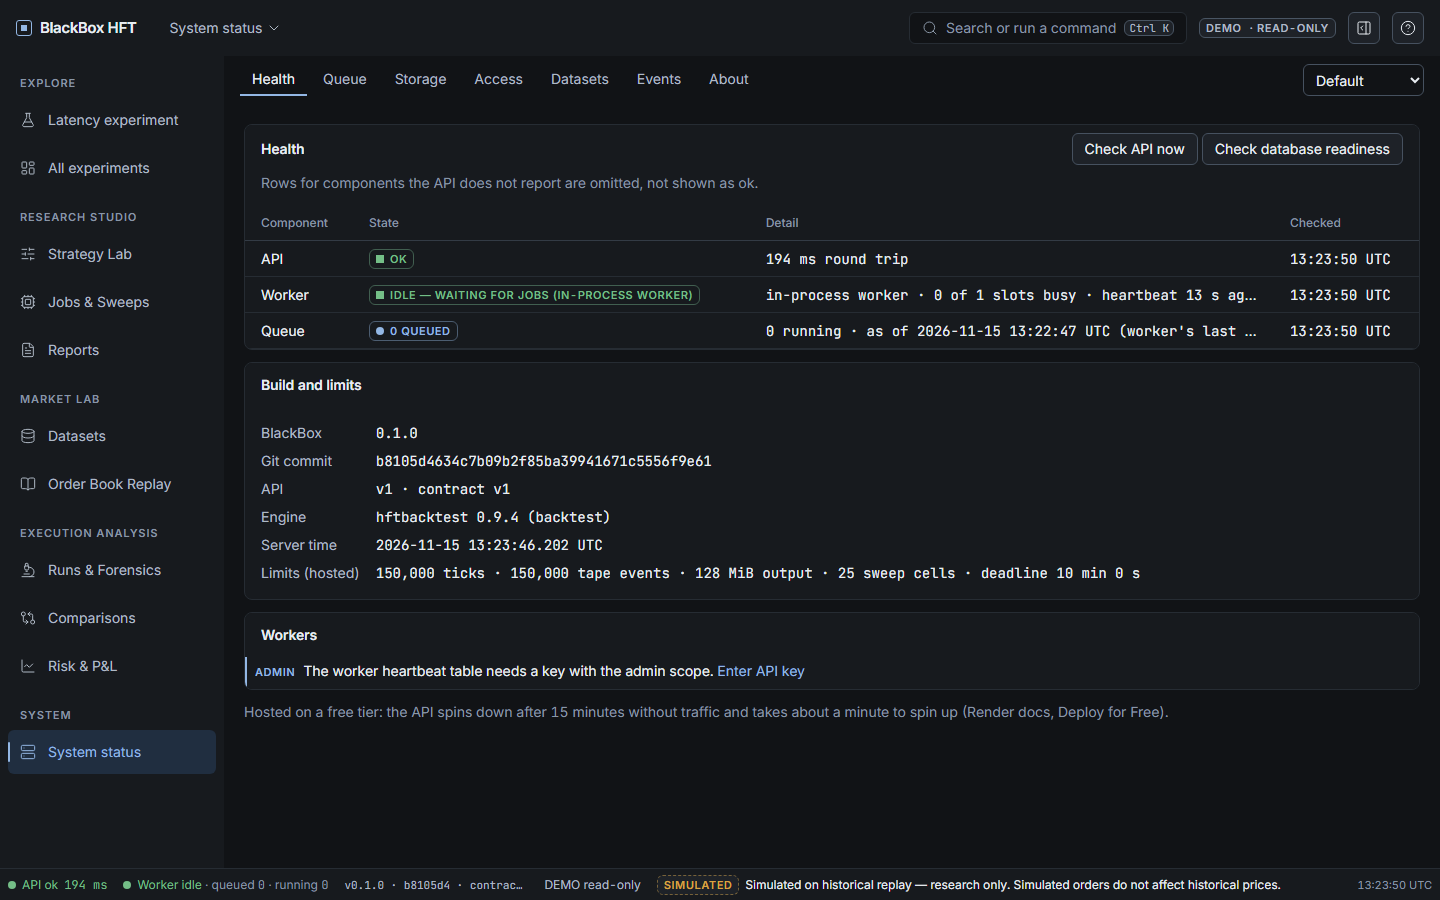
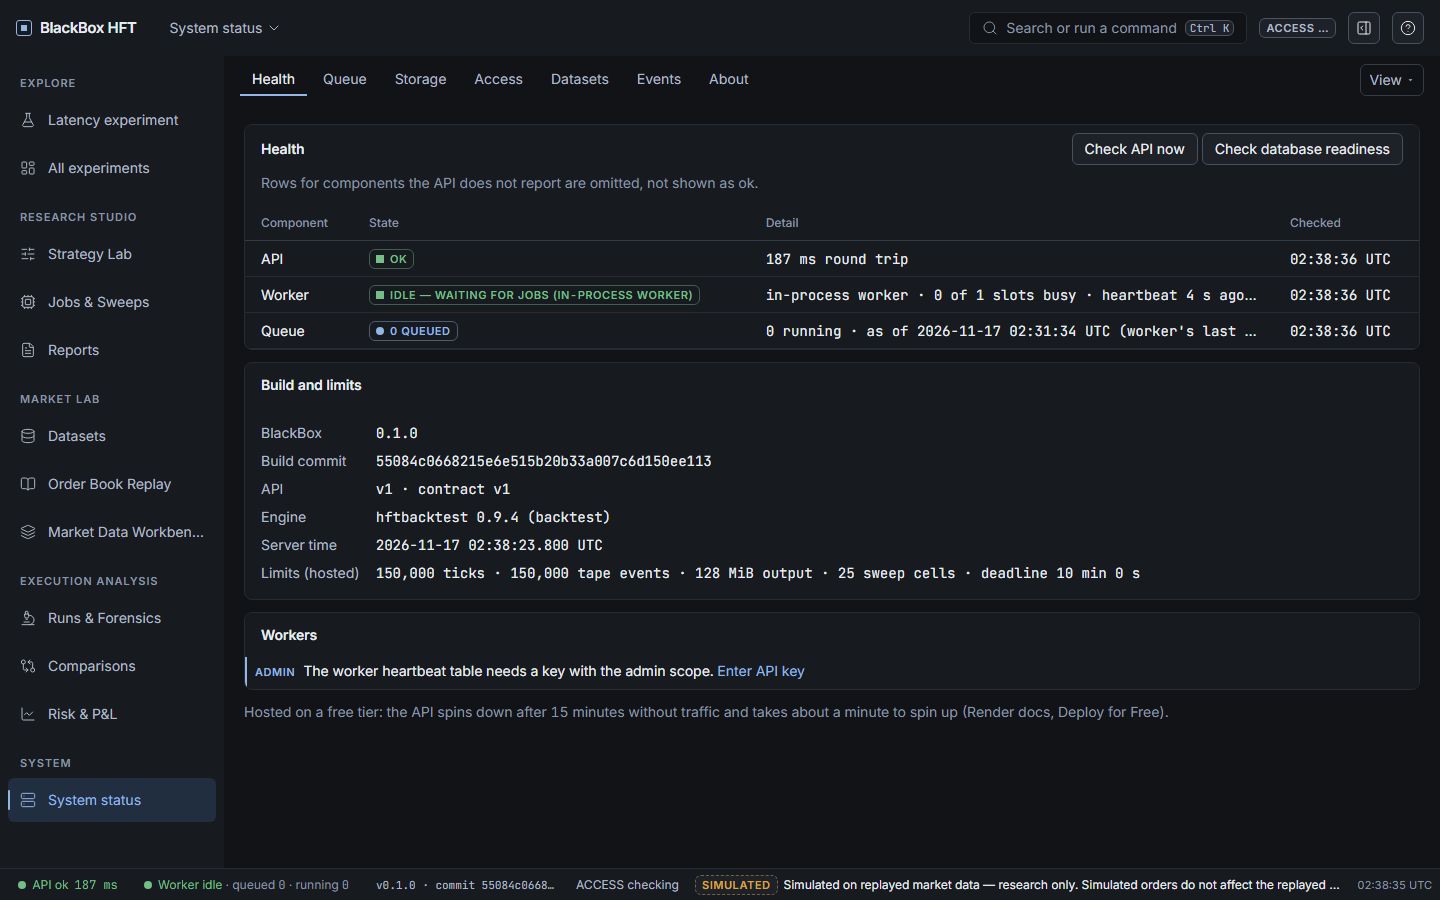
docs: Phase 3.1-5 release record, performance A/B results, tracker and project state
- PHASE31_RELEASE (CI, digest, Render deploy, smoke, demo seed, acceptance, incident, rollback).

- PHASE32_PERFORMANCE: same-session A/B method and results, LCP regression and fix.

- Refreshed production acceptance screenshots and new release screenshots.

diff --git a/docs/rebuild/PHASE32_PERFORMANCE.md b/docs/rebuild/PHASE32_PERFORMANCE.md
@@ -107,7 +107,9 @@ Layout-shift attribution (PerformanceObserver `sources`, same throttling) identi
 | Risk (0.07–0.09) | chart grid replaced a 20 px spinner | chart area reserved while equity loads (`features/risk/*`) |
 | Replay phone (0.34) | a spinner inside the phone toolbar re-wrapped it on every window load | announced status only; the heatmap and body show loading (`features/terminal/ReplayTerminalPage.tsx`) |
 | Run overview (0.47 desktop) | toolbar wrapping and KPI strip | fixed with the Phase 3.1 audit items (toolbar disclosure, wrapping KPI grid) |
-| Market workbench | header line appeared and wrapped late | line always present; see ClsFix |
+| Market workbench (0.04 desktop, 0.08 phone) | meta line appeared late and wrapped | one fixed line with ellipsis and title (`features/market/`) |
+| Compare pair (0.27 desktop) | the evidence legend's Inter 500 face arrived after the data and re-wrapped it | Inter 500 requested at start (`main.tsx`) |
+| Compare set (0.70 desktop, 0.65 phone on the data path) | each panel grew as its request finished | panels render together once the requests that shape them finished (`features/latency/LatencyLabPage.tsx`) |
 
 Also: the layout-reset context moved out of `SplitPane` (entry chunk −1.75 kB); no other bundle change was made
 because no measured bottleneck pointed at JS execution on desktop (0 long tasks during every interaction).
@@ -118,10 +120,64 @@ already compresses).
 
 ## After
 
-See "Results after the changes" below (filled from the A/B run on the same harness, server and data).
+**Measurement pitfall.** A first 5-repetition "after" run taken hours after the baseline showed mobile TBT 4–8× higher
+and mobile interactions 40–230 % slower on every page, including unchanged ones. Same-session CDP
+`Performance.getMetrics` showed the same main-thread work for both builds (e.g. Risk 1,030 vs 1,023 ms TaskDuration,
+Explore 779 vs 718 ms; open-menu 93–116 vs 88–141 ms), so the difference was machine state, not code. All
+comparisons below therefore alternate builds in one session (base, final, base, final; 3 repetitions each; mobile
+profile; same server binary, database and data; egress reset before every run). Raw: `data/perf/ab-mobile.md`,
+`data/perf/ab2-mobile.md` (local).
+
+**A/B 1 (release `55084c0` UI vs `7c49dae`), medians of 6 repetitions per build:**
+
+| Scenario | CLS base → final | TBT ms base → final | LCP ms base → final |
+|---|---|---|---|
+| Replay | 0.344 → 0.001 | 137 → 107 | 10,768 → 11,214 |
+| Run overview | 0.095 → 0.006 | 110 → 82 | 5,198 → 5,720 |
+| Strategy Lab | 0.288 → 0.001 | 0 → 18 | 4,676 → 5,026 |
+| Risk | 0.200 → 0.003 | 207 → 184 | 5,198 → 5,712 |
+| Report | 0.131 → 0.001 | 0 → 0 | 4,090 → 4,592 |
+| Explore | 0.001 → 0.001 | 90 → 75 | 5,240 → 5,664 |
+| Compare pair | 0.001 → 0.001 | 91 → 76 | 4,234 → 4,682 |
+
+Desktop (5 repetitions, separate session): CLS on every page ≤ 0.016 (baseline 0.21–0.47 on five pages); no long
+task during any interaction; interactions ≤ 24 ms. Run-to-run TBT drift within a build was ≤ 17 ms.
+
+**Regression found and fixed.** LCP was 350–520 ms (+4–12 %) later on every mobile page. Causes: (1) the shared
+label module imported the Strategy Lab's form definitions to name configuration paths, so most pages loaded a 37 kB
+chunk; it now reads a 52-entry static table (`components/labFieldLabels.ts`, checked against the Lab definitions by
+`labFieldLabels.test.ts`), and the chunk is 6 kB; (2) all five font faces were requested at start to stop one late
+face from re-wrapping text; now only Inter 500 is.
+
+**A/B 2 (fixed UI vs `7c49dae`), same protocol.** The run `ab2-base-2` had higher background load (per-repetition CPU
+median 31 % vs 17–19 % for the others), which inflates its TBT; TBT below is therefore base-1 vs final-1 only. LCP and
+CLS use all six repetitions.
+
+| Scenario | CLS base → final | LCP ms base → final | TBT ms base-1 → final-1 | Longest task ms (6 reps) |
+|---|---|---|---|---|
+| Replay | 0.344 → 0.001 | 10,852 → 10,942 (+0.8 %) | 151 → 130 | 192 → 164 |
+| Run overview | 0.095 → 0.006 | 5,198 → 5,348 (+2.9 %) | 103 → 85 | 172 → 172 |
+| Strategy Lab | 0.288 → 0.001 | 4,686 → 4,912 (+4.8 %) | 0 → 19 | 181 → 158 |
+| Risk | 0.200 → 0.003 | 5,220 → 5,360 (+2.7 %) | 241 → 216 | 257 → 200 |
+| Report | 0.131 → 0.001 | 4,120 → 4,248 (+3.1 %) | 0 → 0 | 184 → 156 |
+| Explore | 0.001 → 0.001 | 5,284 → 5,390 (+2.0 %) | 101 → 87 | 190 → 172 |
+| Compare pair | 0.001 → 0.001 | 4,250 → 4,406 (+3.7 %) | 92 → 81 | 186 → 156 |
+
+Mobile interactions (6 repetitions each): scenario switch 60 → 56 ms, replay step 60 → 52, scrub 60 → 48, order select
+64 → 52, blotter next page 72 → 40, preset 48 → 48, open menu 76 → 72; blotter touch scroll to visible result 864 →
+259 ms. FCP unchanged (±30 ms).
+
+**Outcome.** CLS meets the 0.1 target on every measured page and profile (worst 0.016 desktop Risk; was 0.47).
+Mobile TBT and the longest task are lower on almost every page. LCP is still 90–226 ms (+1–5 %) later than the
+baseline locally: each page now downloads 9–20 KiB more uncompressed JavaScript (the Workbench, evidence ledger, Lab
+and label code), which costs roughly 50–100 ms at the profile's 200 kB/s and is compressed about 3:1 in production.
+LCP is above the 2.5 s target on the local mobile profile for every page (4.2–10.9 s) both before and after; the
+production mobile smoke measured 2.2–4.5 s with compression. INP is not claimed: these are lab interactions.
 
 ## Remaining limitations
 
 - No field data; INP not claimed. Lab interaction latency only.
 - Local numbers are uncompressed; production numbers are one repetition each (budget and bot-protection limits).
 - Cold start measured only when it occurred naturally.
+- Mobile LCP on the Slow 4G profile is dominated by transfer (entry chunk 397 KiB uncompressed, replay window 1.1 MB
+  of API data); reducing it needs smaller API windows or a smaller entry chunk, both larger changes left for later.

diff --git a/docs/rebuild/PHASE31_RELEASE.md b/docs/rebuild/PHASE31_RELEASE.md
@@ -1,0 +1,55 @@
+# Release: Phases 3.1, 3.2, 4 and 5 (2026-11-16)
+
+`main` = `55084c0` (merge of PR #2, branch `phase31/release`). Commits: `fd4a290` backend (L3 workbench, stress
+regimes, study CLI, `execution_validation` demo), `177fa2c` web, `efceb96` docs, `cdea31c` config-value formatter,
+`799c156` CI curated counts.
+
+PR #1 (`phase31/ui`) was closed unmerged: one of its commits added a docs line that the per-commit secret scan
+(SEC-19) flags (`BLACKBOX_TEST_DATABASE_URL=…`, no real value), and a later commit cannot remove it from the scanned
+range without a force-push. The same content was rebuilt on a new branch from `7c49dae` with that line corrected.
+
+## CI
+
+| Run | Result |
+|---|---|
+| PR #2, 43958470088 (`799c156`) | 8/8 green: rust, golden-windows, web, e2e, contract, audit, policy, docker |
+| `main`, 43960047213 (`55084c0`) | 7/8 first attempt: `web` failed at `npm audit signatures` (`EMISSINGSIGNATUREKEY` for postcss@8.5.32 attestations, the registry-side error recorded in PRODUCTION_ACCEPTANCE for `d85f743`); re-run of the failed job passed |
+| publish 43961883356 | image index `sha256:3cc6b03bc84368d74aed953418a2741f06769476771f97dc166aff0bc45bf6f8`; deploy step skipped (no hook), manual digest release followed |
+
+## Production
+
+| Check | Result |
+|---|---|
+| Render | `render deploys create srv-dbs11fm1egvs73chs7lg --image ghcr.io/tanmay-alpha/blackbox-hft@sha256:3cc6b03b…f6f8`; deploy `dep-dbtnhvsipgvc739jbs40` live; previous `dep-dbsr463l550s7398h2i0` deactivated |
+| `/api/v1/status` | `git_sha=55084c0668215e6e515b20b33a007c6d150ee113`, worker idle, `result_platform=linux-x86_64+libm-53154a4e` |
+| Smoke (`scripts/deploy/smoke.sh`) | 8/8 PASS |
+| Vercel | production deployment built from `main` (created 21:26 UTC) Ready; bundle contains the Market Data Workbench; `/market/l3-demo` 200 |
+| Market endpoints (anonymous) | `/market/datasets`, `/l3-demo`, `/events?limit=5`, `/book?event_index=15000`, `/metrics`, `/comparison` all 200 (0.20–0.73 s) |
+| Demo seed | pass 1 registered `synthetic-stress-depletion` and `synthetic-stress-wide-spreads`, queued 6 runs; the hosted worker completed them; pass 2 created 6 comparisons (4 aligned, 2 metrics-only across datasets) and the "Execution model validation" report. The 8 existing demo runs kept their ids (`253bbc23b342f373`, `d6a57aed972e18d0`, `bc2d1df47e2b91fe`, `130d67fc371bd27f`, `6bcdf19136fd3059`, `586374188aae19b2`) |
+| `/api/v1/demos` | lists `cost_of_latency`, `queue_position`, `gross_vs_net`, `execution_validation` |
+| Anonymous acceptance (`npm run test:prod`) | 7 passed, 1 skipped (the keyed journey needs `PROD_RESEARCH_KEY`, not set) |
+| New pages in a browser (1440×900) | `/market/l3-demo?tab=book&event=15000`, `/forensics/253bbc23b342f373/orders/256` (evidence ledger), `/book/runs/253bbc23b342f373`: one h1, no error box, no console error. `/compare/set?demo=execution_validation`: the first load after the deploy got one `503 busy` (heavy-read permit wait of 2 s exceeded while 7 run bundles were fetched cold from Blob; the page showed the error with Retry); two reloads 8 s apart loaded all 6 panels with no error. Screenshots `img/p31-prod-*-1440.webp` |
+
+Notes:
+- Anonymous list endpoints come from the in-memory demo snapshot (`v1/snapshot.rs`, `MAX_AGE` 1 h), so the new
+  curated comparisons appear in `/comparisons` within an hour of the seed; detail reads by id were 200 immediately.
+- The idle in-process worker sleeps until its next scheduled wake when jobs are inserted by another process; the 6
+  seeded jobs were claimed a few minutes after insertion, as documented in `worker.rs`.
+
+## Incident during the release (no production data changed)
+
+After the seed, a local development server was restarted from the same shell, which still held the production
+`BLOB_READ_WRITE_TOKEN` from the seed step. It started with `storage=vercel_blob` against the local database and made
+18 read requests (16,077,417 bytes) to the production Blob store before it was stopped; it wrote nothing (no jobs
+ran). The shell variables were unset and every later local server is started with `env -u BLOB_READ_WRITE_TOKEN …`.
+Lesson: run production operator steps in a subshell so credentials never persist.
+
+## Rollback
+
+```
+render deploys create srv-dbs11fm1egvs73chs7lg --image ghcr.io/tanmay-alpha/blackbox-hft@sha256:c41fd646e2ba36d5ed2450b3bd31e23d53b1f1a36c1898781928c5c83d864c6b --wait --confirm
+vercel rollback <previous production deployment> --scope tanmay-alphas-projects
+```
+
+No migration. The added demo rows (2 datasets, 6 runs, 6 comparisons, 1 report) are additive and are ignored by the
+previous release's code paths except that its `/demos` does not list `execution_validation`.

diff --git a/docs/engineering/PROJECT_STATE.md b/docs/engineering/PROJECT_STATE.md
@@ -4,18 +4,20 @@ Single source of truth for the current phase, decisions, infrastructure and next
 
 ## Current phase
 
-**Phases 3.1, 3.2, 4 and 5 in progress on branch `phase31/ui` (2026-11-17), not yet released.** Tracker:
-[../rebuild/NEXT_PHASES_TRACKER.md](../rebuild/NEXT_PHASES_TRACKER.md). Evidence: Phase 3.1
-[../rebuild/PHASE31_UI_REVIEW.md](../rebuild/PHASE31_UI_REVIEW.md), Phase 3.2
-[../rebuild/PHASE32_PERFORMANCE.md](../rebuild/PHASE32_PERFORMANCE.md), Phase 4
-[../research/MARKET_DATA_WORKBENCH.md](../research/MARKET_DATA_WORKBENCH.md) and
-[../research/L3_L2_VALIDATION.md](../research/L3_L2_VALIDATION.md), Phase 5
-[../research/EXECUTION_MODEL_VALIDATION.md](../research/EXECUTION_MODEL_VALIDATION.md). No migration; the release
-adds the `execution_validation` demo, so production needs `demo seed` after the image is live. Agent availability
-during this phase: GPT-6.1 Sol hit `usage_limit_reached` and Opus 5.5 hit HTTP 429 mid-phase; the affected tasks were
-re-run by other agents from the transcripts.
+**Phases 3.1, 3.2, 4 and 5 released (2026-11-16 21:44 UTC).** `main` = `55084c0` (merge of PR #2). Image
+`ghcr.io/tanmay-alpha/blackbox-hft@sha256:3cc6b03bc84368d74aed953418a2741f06769476771f97dc166aff0bc45bf6f8`, Render
+deploy `dep-dbtnhvsipgvc739jbs40` live; `/status` `git_sha=55084c0…`, worker idle, platform
+`linux-x86_64+libm-53154a4e`. Smoke 8/8 PASS; anonymous production acceptance 7/7 (keyed spec skipped: no key in the
+environment). Vercel production built from `main`. Production `demo seed` (operator machine, TCP forwarder to Neon)
+registered the two stress datasets, the hosted worker computed the 6 new `execution_validation` runs, and the second
+pass stored 6 comparisons and 1 report; all 8 earlier demo runs kept their run ids. Record:
+[../rebuild/PHASE31_RELEASE.md](../rebuild/PHASE31_RELEASE.md). Tracker:
+[../rebuild/NEXT_PHASES_TRACKER.md](../rebuild/NEXT_PHASES_TRACKER.md). Rollback: redeploy
+`sha256:c41fd646e2ba36d5ed2450b3bd31e23d53b1f1a36c1898781928c5c83d864c6b` (release `b8105d4`) and promote the previous
+Vercel deployment; no migration. Agent availability during this phase: GPT-6.1 Sol hit `usage_limit_reached` and Opus
+5.5 hit HTTP 429 mid-phase; the affected tasks were re-run by other agents from the transcripts.
 
-The production state below is the last release, unchanged until this branch is released.
+Previous release, for reference:
 
 **Phase 3 released and verified (2026-11-15 13:23 UTC).** `main` = `b8105d4` (frontend-only product-experience
 release). The API reports `git_sha=b8105d4` from image `ghcr.io/tanmay-alpha/blackbox-hft@sha256:c41fd646…864c6b`

diff --git a/docs/rebuild/NEXT_PHASES_TRACKER.md b/docs/rebuild/NEXT_PHASES_TRACKER.md
@@ -1,23 +1,22 @@
 # Next phases tracker (3.1, 3.2, 4, 5)
 
-Status of each deliverable on branch `phase31/ui` (working tree over `main` 7c49dae), judged only by whether the
-named files exist in the tree on 2026-11-17. "Done" means the file is present, not that it has been released.
-Production deployment of every phase below: **pending release**.
+Status of each deliverable on `main` `55084c0` (2026-11-17). Production: **released** 2026-11-16 21:44 UTC
+(record: [PHASE31_RELEASE.md](PHASE31_RELEASE.md)); the `execution_validation` demo is seeded in production.
 
 ## Phase 3.1: UI polish, responsiveness, accessibility
 
 | Deliverable | Evidence | Status |
 |---|---|---|
-| Review record with defect matrix, regression tests | `docs/rebuild/PHASE31_UI_REVIEW.md` | Partial: its "Remaining" section still awaits the independent product review |
+| Review record with defect matrix, regression tests, independent review (7.90) | `docs/rebuild/PHASE31_UI_REVIEW.md` | Done |
 | Before/after screenshots 360–1440 px | `docs/rebuild/img/p3-*.webp` | Done |
 | Shell, component and page changes | `web/src/shell/`, `web/src/components/`, `web/src/features/*/` (modified) | Done |
-| E2E coverage | `web/e2e/research.spec.ts`, `web/e2e/fixtures.ts` (modified) | Done |
+| E2E coverage | `web/e2e/responsive.spec.ts`, `web/e2e/a11y-keyboard.spec.ts`, `web/e2e/measure.ts`, `web/e2e/research.spec.ts` (52/52 locally, CI e2e green) | Done |
 
 ## Phase 3.2: performance
 
 | Deliverable | Evidence | Status |
 |---|---|---|
-| Phase 3.2 performance document | none yet (prior results: `docs/rebuild/PERFORMANCE_RESULTS.md`, `docs/PERFORMANCE.md`) | In progress |
+| Phase 3.2 performance document, harness, baselines, fixes | `docs/rebuild/PHASE32_PERFORMANCE.md`, `web/perf/` | Done (lab measurements only; no field data) |
 
 ## Phase 4: Market Data Workbench (L3)
 

diff --git a/docs/rebuild/PHASE31_UI_REVIEW.md b/docs/rebuild/PHASE31_UI_REVIEW.md
@@ -110,12 +110,17 @@ shows two time ticks at 360 px (the chart library chooses tick density); two ser
 - `web/e2e/a11y-keyboard.spec.ts`: APG toolbar (one tab stop, arrows/Home/End with wrap, Tab out, Shift+Tab back, View
   opens with Enter, Escape closes and restores focus, hint only on keyboard focus); replay keys (Space only off
   controls, arrows step); skip link first; exactly one h1 on 13 routes; no console or HTTP errors.
-- Result before the last fixes: 44 / 45 (the 360 px compare run-id link, since fixed). Final run: see the release
-  record.
+- Final run before release (fresh build, database and port): **52 / 52 passed** (responsive, keyboard, anonymous,
+  Explore and keyed research specs); CI `e2e` green on PR #2 and `main`.
 
-## Remaining
+## After the independent review
 
-See the independent product review (UxReview) appended below once it reports.
+All eight must-fix items U1–U8 below were fixed before release (WordingFix: synthetic-aware "replayed market data"
+wording, SYNTHETIC badge on Replay, "risk-averse" display, plain names; ConfigFix: readable object config values,
+"compared elsewhere" link for the depleted risk-averse run, no console errors on invalid Lab drafts, field errors in
+`aria-describedby`). Still open: the server-generated report prose ("touch_maker, evaluated every 100000000 ns",
+"Historical replay only") in `crates/bb-app/src/report.rs`; "historical" wording on Explore, Forensics, Reports,
+Sweep, Mission Control and the book index; Replay's 15 px heading (deliberate, space goes to the ladder).
 
 ## Independent product review (UxReview3)
 
